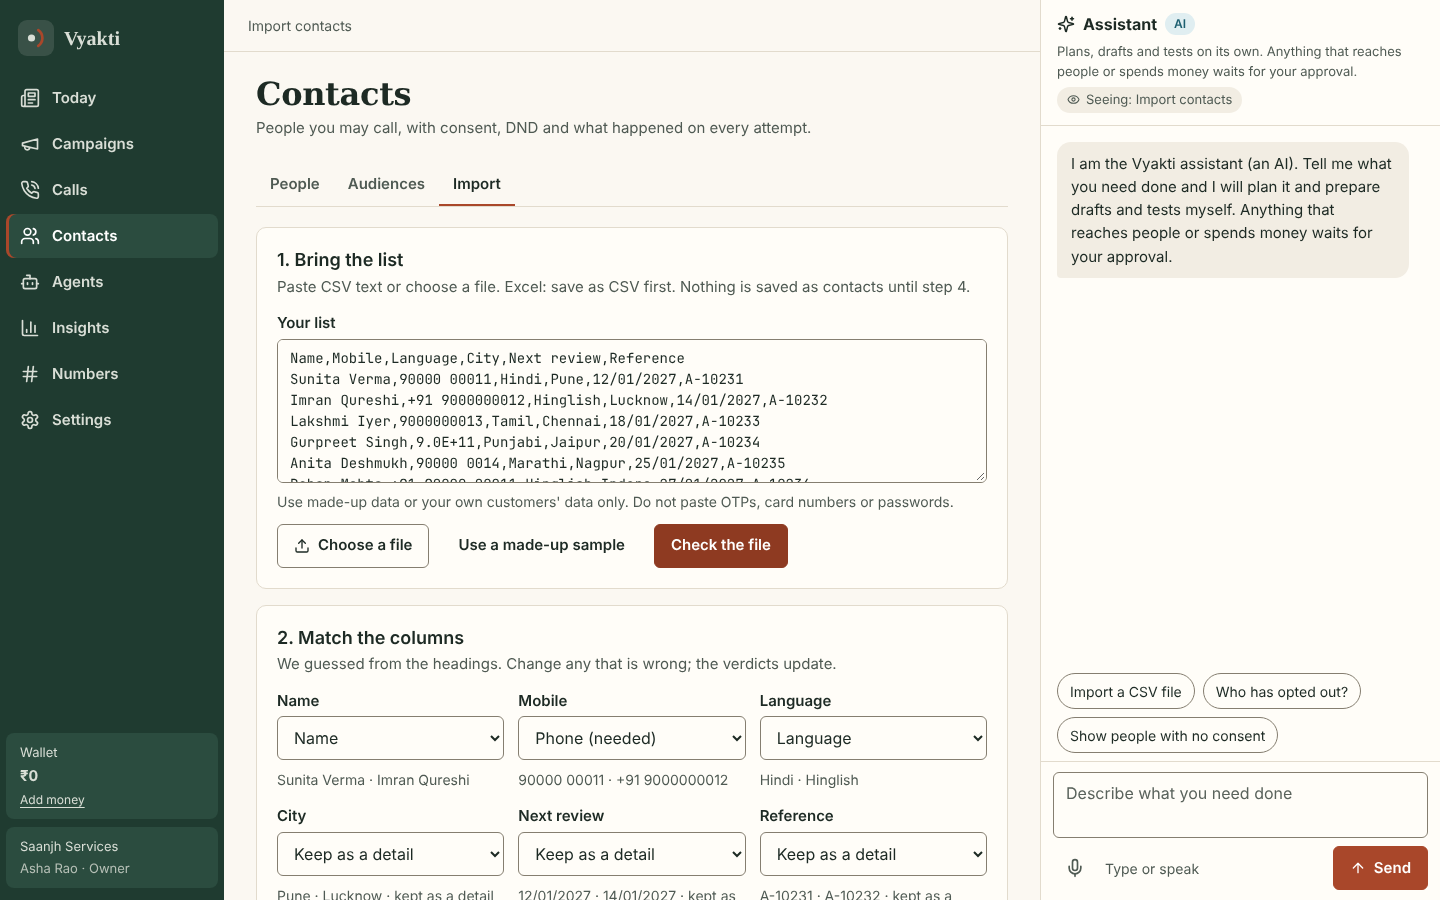
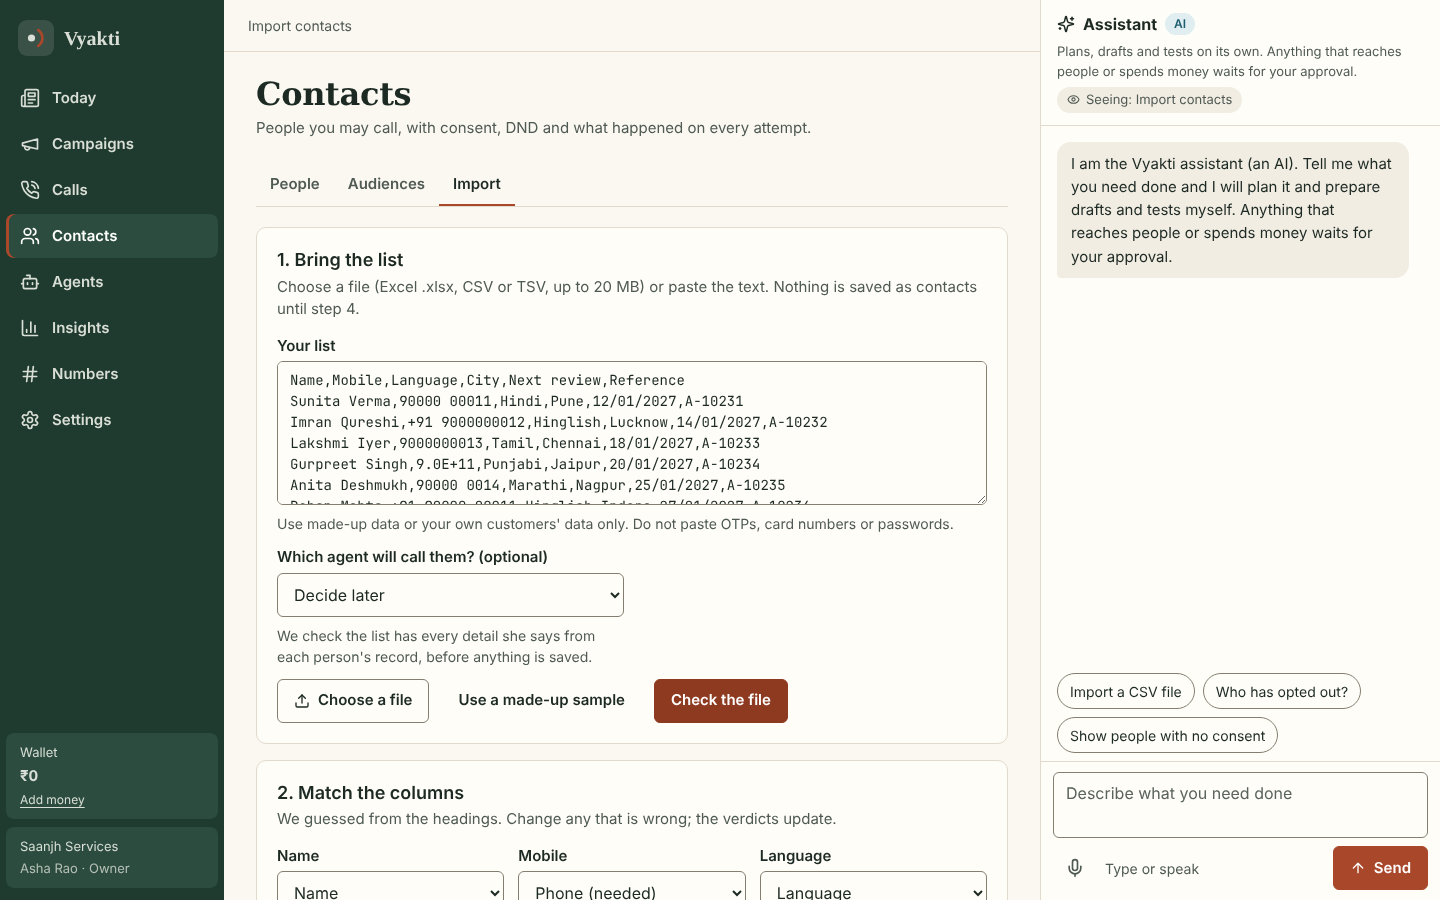
Import a buyer's real file: Excel on the web screen, the agent's column contract, per-person voice and opening (brief 9)
- Web import: choose an Excel (.xlsx), CSV or TSV file up to 20 MB (Excel is read on the server; formulas use their
  saved values), an optional "Which agent will call them?", and a card listing each detail that agent says from a
  person's record with the column that fills it; a suggested column is matched only when the member taps it.
  Voice and opening for one person are column choices. The 900 KB limit is gone.
- source.map returns up to three sample values per column (none for viewers), so Excel columns show samples.
- Server strings say Vyakti, not VP.
- Browser flow: an .xlsx with a Devanagari number and a formula cell, imported for the EMI agent; the missing due date
  is matched in one tap and the server keeps it under emi_due. Screenshots contacts-import-excel at 1440 and 390.
Verified: tsc clean (server, web); ui-contract 193/193; intake 19/19, intake-xlsx 8/8; product and review suite green;
browser flows 57 pass, 0 fail, 2 skipped (no voice runtime on this machine).

Claude-Session: https://claude.ai/code/session_01QRmKfijmjXuo8anLZ2SL3g

Changed region(s): [[0.1875, 0.3111, 0.6875, 1.0], [0.4062, 0.6533, 0.4375, 0.6844]]

diff --git a/product/web/src/pages/contacts.tsx b/product/web/src/pages/contacts.tsx
@@ -5,8 +5,8 @@ import { useApp, useData } from '../store.tsx';
 import { Link, useNav, useQuery } from '../router.tsx';
 import { Async, Btn, Card, CardHead, Chip, Empty, Kv, PageHead, SelectField, Table, Tabs, TextArea, TextField, type Col } from '../ui.tsx';
 import { langShort } from '../catalog.ts';
-import { audienceList, contactGet, contactList, importMap, importUpload, overridesFrom } from '../data.ts';
-import { count, date, phone as fmtPhone } from '../format.ts';
+import { agentNames, audienceList, contactGet, contactList, importMap, importUpload, importUploadFile, isExcel, MAX_IMPORT_BYTES, overridesFrom } from '../data.ts';
+import { bytes as fmtBytes, count, date, phone as fmtPhone, plural } from '../format.ts';
 import { BulkDnd, DndButton, DndExplain, ExportButton, StopCard, SuppressionNote } from './contact-actions.tsx';
 const REASON: Record<string, string> = { dnd_unknown: 'Do Not Disturb has not been checked yet', dnd_registered: 'The person is on the Do Not Disturb list', suppressed: 'The person asked not to be called', no_consent: 'No consent is on file', no_basis: 'There is no basis on file to call this person', tombstoned: 'The person asked to be erased' };
 const reasonText = (r: string) => REASON[r] ?? prettyCode(r).replace(/^Dnd/, 'Do Not Disturb');
@@ -98,11 +98,15 @@ Rohan Mehta,+91 90000 00011,Hinglish,Indore,27/01/2027,A-10236
 Farah Sheikh,,Hinglish,Kochi,01/02/2027,A-10237
 Vikram Rao,9000000015,Telugu,Patna,03/02/2027,A-10238
 `;
-const FIELDS: [string, string][] = [['name', 'Name'], ['first_name', 'First name'], ['last_name', 'Last name'], ['phone', 'Phone (needed)'], ['language', 'Language'], ['timezone', 'Time zone'], ['consent', 'Consent (yes or no)'], ['consent_at', 'Consent date'], ['opt_out', 'Opted out (yes or no)'], ['attribute', 'Keep as a detail'], ['ignore', 'Ignore this column']];
+const FIELDS: [string, string][] = [['name', 'Name'], ['first_name', 'First name'], ['last_name', 'Last name'], ['phone', 'Phone (needed)'], ['language', 'Language'], ['timezone', 'Time zone'], ['consent', 'Consent (yes or no)'], ['consent_at', 'Consent date'], ['opt_out', 'Opted out (yes or no)'], ['voice', 'Voice for this person'], ['first_message', 'What to open with, for this person'], ['attribute', 'Keep as a detail'], ['ignore', 'Ignore this column']];
 
 function Import() {
   const { act, toast } = useApp(); const go = useNav();
   const [csv, setCsv] = useState('');
+  const [picked, setPicked] = useState<File | null>(null);        // a chosen file sent as is (Excel, or text too big to show)
+  const [srcText, setSrcText] = useState('');                     // the text the preview's samples come from
+  const [agentId, setAgentId] = useState('');
+  const agents = useData('import-agents', agentNames);
   const [pv, setPv] = useState<ImportPreview | null>(null);
   const [busy, setBusy] = useState(false);
   const [purpose, setPurpose] = useState(''); const [aud, setAud] = useState(() => `Import of ${date(new Date())}`);
@@ -111,7 +115,10 @@ function Import() {
 
   const check = async () => {
     setBusy(true);
-    try { const id = await importUpload(csv, 'Pasted list'); setPv(await importMap(id, csv)); }
+    try {
+      const up = picked ? await importUploadFile(picked) : { uploadId: await importUpload(csv, 'Pasted list'), text: csv };
+      setSrcText(up.text); setPv(await importMap(up.uploadId, up.text, undefined, agentId || undefined));
+    }
     catch (e) { toast(e instanceof Error ? e.message : 'Could not read that file.', 'bad'); }
     setBusy(false);
   };
@@ -121,10 +128,24 @@ function Import() {
     const col = pv.columns.find(c => c.header === header)!;
     ov[header] = { field, key: field === 'attribute' || field === 'ignore' ? col.key ?? header.toLowerCase().replace(/[^\p{L}\p{N}]+/gu, '_').replace(/^_|_$/g, '') : undefined };
     setBusy(true);
-    try { setPv(await importMap(pv.uploadId, csv, ov)); } catch (e) { toast(e instanceof Error ? e.message : 'Could not apply that.', 'bad'); }
+    try { setPv(await importMap(pv.uploadId, srcText, ov, agentId || undefined)); } catch (e) { toast(e instanceof Error ? e.message : 'Could not apply that.', 'bad'); }
     setBusy(false);
   };
-  const onFile = async (f?: File) => { if (!f) return; if (f.size > 900_000) { toast('That file is over 900 KB. Split it into smaller files for now.', 'bad'); return; } setCsv(await f.text()); setPv(null); };
+  const onFile = async (f?: File) => {
+    if (!f) return;
+    if (file.current) file.current.value = '';
+    if (f.size > MAX_IMPORT_BYTES) { toast(`That file is ${fmtBytes(f.size)}. Files can be up to 20 MB; split it into smaller files.`, 'bad'); return; }
+    if (/\.xls$/i.test(f.name)) { toast('That is an old Excel file (.xls). Save it as .xlsx or CSV, then choose it again.', 'bad'); return; }
+    setPv(null);
+    if (isExcel(f) || f.size > 400_000) { setPicked(f); setCsv(''); } else { setPicked(null); setCsv(await f.text()); }
+  };
+  const useColumn = (header: string, factKey: string) => {
+    if (!pv) return;
+    const ov = overridesFrom(pv.columns);
+    ov[header] = { field: 'attribute', key: factKey };
+    setBusy(true);
+    importMap(pv.uploadId, srcText, ov, agentId || undefined).then(setPv, e => toast(e instanceof Error ? e.message : 'Could not apply that.', 'bad')).finally(() => setBusy(false));
+  };
   const rows = useMemo(() => (pv?.rows ?? []).filter(r => filter === 'all' || r.verdict !== 'ok'), [pv, filter]);
   const missingPhone = pv && !pv.columns.some(c => c.field === 'phone');
   const commit = async () => {
@@ -140,13 +161,21 @@ function Import() {
   ];
   return (
     <div className="stack">
-      <Card><CardHead title="1. Bring the list" sub="Paste CSV text or choose a file. Excel: save as CSV first. Nothing is saved as contacts until step 4." />
-        <TextArea label="Your list" value={csv} onChange={e => { setCsv(e.target.value); setPv(null); }} rows={6} placeholder="Name,Mobile,City&#10;Sunita Verma,90000 00011,Pune" className="field-mono" hint="Use made-up data or your own customers' data only. Do not paste OTPs, card numbers or passwords." />
+      <Card><CardHead title="1. Bring the list" sub="Choose a file (Excel .xlsx, CSV or TSV, up to 20 MB) or paste the text. Nothing is saved as contacts until step 4." />
+        {picked ? <div className="filepick" role="status"><p><strong>{picked.name}</strong> <span className="muted tnum">· {fmtBytes(picked.size)}{isExcel(picked) ? ' · Excel, read on our server (first sheet; formulas use their saved values)' : ''}</span></p>
+          <Btn size="sm" kind="ghost" onClick={() => { setPicked(null); setPv(null); }}>Choose another</Btn></div>
+          : <TextArea label="Your list" value={csv} onChange={e => { setCsv(e.target.value); setPv(null); }} rows={6} placeholder="Name,Mobile,City&#10;Sunita Verma,90000 00011,Pune" className="field-mono" hint="Use made-up data or your own customers' data only. Do not paste OTPs, card numbers or passwords." />}
+        <div className="formgrid" style={{ marginTop: 12 }}>
+          <Async q={agents} what="Agents" tool="agent.list" rows={1}>{list => (
+            <SelectField label="Which agent will call them? (optional)" value={agentId} onChange={e => { setAgentId(e.target.value); setPv(null); }}
+              hint="We check the list has every detail she says from each person's record, before anything is saved.">
+              <option value="">Decide later</option>{list.map(a => <option key={a.id} value={a.id}>{a.name}</option>)}</SelectField>)}</Async>
+        </div>
         <div className="row" style={{ marginTop: 12 }}>
-          <input ref={file} type="file" accept=".csv,text/csv,text/plain" className="sr" aria-label="Choose a CSV file" onChange={e => void onFile(e.target.files?.[0])} />
+          <input ref={file} type="file" accept=".xlsx,.csv,.tsv,.txt,text/csv,text/plain,application/vnd.openxmlformats-officedocument.spreadsheetml.sheet" className="sr" aria-label="Choose a file: Excel, CSV or TSV" onChange={e => void onFile(e.target.files?.[0])} />
           <Btn icon={<Upload size={16} aria-hidden />} onClick={() => file.current?.click()}>Choose a file</Btn>
-          <Btn kind="ghost" onClick={() => { setCsv(SAMPLE); setPv(null); }}>Use a made-up sample</Btn>
-          {csv.trim() ? <Btn kind="primary" busy={busy} onClick={() => void check()}>Check the file</Btn> : <Btn disabled reason="Paste or choose a list first.">Check the file</Btn>}
+          <Btn kind="ghost" onClick={() => { setPicked(null); setCsv(SAMPLE); setPv(null); }}>Use a made-up sample</Btn>
+          {picked || csv.trim() ? <Btn kind="primary" busy={busy} onClick={() => void check()}>Check the file</Btn> : <Btn disabled reason="Choose a file or paste a list first.">Check the file</Btn>}
         </div></Card>
       {pv && <>
         <Card><CardHead title="2. Match the columns" sub="We guessed from the headings. Change any that is wrong; the verdicts update." />
@@ -154,7 +183,9 @@ function Import() {
             <div key={c.header} className="mapcol"><SelectField label={c.header} value={c.field.startsWith('attribute:') ? 'attribute' : c.field} onChange={e => void remap(c.header, e.target.value)} hint={<span lang="hi">{c.sample.filter(Boolean).slice(0, 2).join(' · ') || 'empty'}{c.why === 'default' ? ' · kept as a detail by default' : ''}</span>}>
               {FIELDS.map(([v, l]) => <option key={v} value={v}>{l}</option>)}</SelectField></div>))}</div>
           {missingPhone && <p className="hint hint-bad">No column is matched to Phone, so no row can be called.</p>}
+          {pv.converted && <p className="hint">Read from the sheet “{pv.converted.sheet}” of your Excel file.{pv.converted.formulaCells ? ` ${plural(pv.converted.formulaCells, 'formula cell')} used ${pv.converted.formulaCells === 1 ? 'the value' : 'the values'} Excel last saved.` : ''}{pv.converted.formulaWithoutValue ? ` ${plural(pv.converted.formulaWithoutValue, 'formula cell')} had no saved value and ${pv.converted.formulaWithoutValue === 1 ? 'is' : 'are'} empty; open the file in Excel and save it to fill ${pv.converted.formulaWithoutValue === 1 ? 'it' : 'them'}.` : ''}</p>}
         </Card>
+        {pv.agentFacts && <AgentFactsCard facts={pv.agentFacts} headers={pv.columns.map(c => c.header)} busy={busy} onUse={useColumn} />}
         <Card><CardHead title="3. What will happen to each row" />
           <div className="receipt" role="status">
             <div><b className="tnum serif">{count(pv.counts.in)}</b><span>rows in</span></div><div><b className="tnum serif">{count(pv.counts.callable)}</b><span>callable numbers</span></div>
@@ -170,6 +201,23 @@ function Import() {
           <div style={{ marginTop: 16 }}>{reasonOff ? <Btn disabled reason={reasonOff}>Save contacts</Btn> : <Btn kind="primary" onClick={commit}>Save {count(pv.counts.callable)} contacts</Btn>}</div></Card>
       </>}
     </div>
+  );
+}
+
+/** The chosen agent's column contract: each detail she says from a person's record, and the column that fills it.
+ *  Nothing is matched for the member; a suggestion becomes a match only when they tap it. */
+function AgentFactsCard({ facts, headers, busy, onUse }: { facts: NonNullable<ImportPreview['agentFacts']>; headers: string[]; busy: boolean; onUse: (header: string, factKey: string) => void }) {
+  const missing = facts.facts.filter(f => f.status === 'missing');
+  return (
+    <Card><CardHead title={`What ${facts.agent} says from each person's record`} sub={missing.length ? `${count(missing.length)} ${missing.length === 1 ? 'detail has' : 'details have'} no column yet. A campaign with this agent cannot start until each has one.` : 'Every detail she says has a column in this list.'} />
+      {facts.facts.length === 0 ? <p className="muted">This agent says nothing from a person's record, so any list works.</p> :
+        <ul className="facts">{facts.facts.map(f => (
+          <li key={f.key}><div className="row" style={{ justifyContent: 'space-between' }}><strong>{f.label}</strong>
+            <Chip tone={f.status === 'missing' ? 'brick' : 'leaf'}>{f.status === 'missing' ? 'No column' : f.status === 'name' ? 'From the name' : `From “${headers.find(h => h === f.column) ?? f.column}”`}</Chip></div>
+            {f.status === 'missing' && (f.suggestions.length ? <div className="row" style={{ marginTop: 6 }}><span className="small muted">Is it one of these?</span>
+              {f.suggestions.filter(h => headers.includes(h)).slice(0, 3).map(h => <Btn key={h} size="sm" busy={busy} onClick={() => onUse(h, f.key)}>Use “{h}”</Btn>)}</div>
+              : <p className="small muted">No column looks like it. Add one to the file, or change the agent.</p>)}</li>))}</ul>}
+    </Card>
   );
 }
 

diff --git a/product/web/src/data.ts b/product/web/src/data.ts
@@ -1,7 +1,7 @@
 // The data layer: turns the real tools' answers into the view models the pages draw, and turns page actions into tool calls.
 // Pure TypeScript (no JSX). Every read goes through run(), so a tool that is not registered throws ToolMissing and the page
 // shows its "not switched on yet" state. Shapes here follow product/shared/tool-catalog.json and the module code.
-import { run } from './api.ts';
+import { run, uploadContacts } from './api.ts';
 import { partsRan } from './catalog.ts';
 import type {
   ActivityRow, AgentConfigDraft, AgentDoc, AgentRow, ApiKey, AudienceRow, Blocker, CallDoc, CallExplain, CallRow, CallTurn, CampaignDoc, CampaignRow, ContactDoc, ContactRow,
@@ -117,24 +117,46 @@ const REJECT_TEXT: Record<string, string> = {
 export function parseCsvSample(text: string, col: number): string[] {
   return text.split(/\r?\n/).slice(1, 4).map(l => (l.split(',')[col] ?? '').trim());
 }
+/** Agents by name, for the import screen's "Which agent will call them?" (no per-agent detail fetched). */
+export async function agentNames(): Promise<{ id: string; name: string }[]> {
+  return arr<any>((await run<{ agents: unknown[] }>('agent.list', {})).agents).map(a => ({ id: a.id, name: a.name }));
+}
 export async function importUpload(text: string, name: string): Promise<string> {
   const r = await run<{ uploadId: string }>('source.upload', { kind: 'csv', name, text, filename: name });
   return r.uploadId;
 }
-export async function importMap(uploadId: string, text: string, overrides?: Record<string, { field: string; key?: string }>): Promise<ImportPreview> {
-  const r = await run<any>('source.map', { uploadId, overrides, previewRows: 100 });
+/** A chosen file to an upload: Excel goes as base64 and is read on the server; text files go as text. Up to 20 MB. */
+export const MAX_IMPORT_BYTES = 20 * 1024 * 1024;
+export const isExcel = (f: File) => /\.xlsx$/i.test(f.name) || f.type === 'application/vnd.openxmlformats-officedocument.spreadsheetml.sheet';
+export async function importUploadFile(f: File): Promise<{ uploadId: string; text: string }> {
+  if (isExcel(f)) {
+    const bytes = new Uint8Array(await f.arrayBuffer());
+    let bin = '';
+    for (let i = 0; i < bytes.length; i += 0x8000) bin += String.fromCharCode(...bytes.subarray(i, i + 0x8000));
+    return { uploadId: (await uploadContacts({ base64: btoa(bin), filename: f.name })).uploadId, text: '' };
+  }
+  const text = await f.text();
+  return { uploadId: (await uploadContacts({ text, filename: f.name })).uploadId, text };
+}
+const OVERRIDE_NOTE = /^(voice|first message): /;
+export async function importMap(uploadId: string, text: string, overrides?: Record<string, { field: string; key?: string }>, agentId?: string): Promise<ImportPreview> {
+  const r = await run<any>('source.map', { uploadId, overrides, previewRows: 100, ...(agentId ? { agentId } : {}) });
   const nameOf = (p: any) => p.attributes?.name as string | undefined;
   const rows: ImportRowVerdict[] = arr<any>(r.preview).map(p => {
     const v: string = p.verdict;
+    const refused = arr<string>(p.notes).filter(n => OVERRIDE_NOTE.test(n));
+    if ((v === 'new' || v === 'update' || v === 'unchanged') && refused.length) return { row: p.row, phone: p.phone, verdict: 'review', name: nameOf(p), reason: `Will be called, but not with this ${refused.map(n => n.replace(/^(voice|first message): .*/, '$1')).join(' or ')}: ${refused[0].replace(OVERRIDE_NOTE, '')}` };
     if (v === 'new' || v === 'update' || v === 'unchanged') return { row: p.row, phone: p.phone, verdict: 'ok', name: nameOf(p), reason: v === 'update' ? 'Already on file; details will be merged' : undefined };
     if (v === 'duplicate_in_file') return { row: p.row, phone: p.phone, verdict: 'duplicate', name: nameOf(p), reason: 'Same number as an earlier row' };
     if (v === 'suppressed' || v === 'tombstoned') return { row: p.row, phone: p.phone, verdict: 'suppressed', name: nameOf(p), reason: 'This person asked not to be called' };
     if (v === 'conflict_review') return { row: p.row, phone: p.phone, verdict: 'review', name: nameOf(p), reason: 'Two sources disagree; a person should look' };
     return { row: p.row, phone: null, verdict: 'skipped', name: nameOf(p), reason: REJECT_TEXT[v] ?? v };
   });
-  const cols = arr<any>(r.columns).map(c => ({ header: c.header, sample: parseCsvSample(text, c.column), field: c.field === 'attribute' ? `attribute:${c.key}` : c.field, key: c.key, confidence: c.confidence, why: c.why }));
+  const cols = arr<any>(r.columns).map(c => ({ header: c.header, sample: Array.isArray(c.samples) ? c.samples : parseCsvSample(text, c.column), field: c.field === 'attribute' ? `attribute:${c.key}` : c.field, key: c.key, confidence: c.confidence, why: c.why }));
   const rej = Object.values<number>(r.phones?.rejected ?? {}).reduce((a, b) => a + b, 0);
-  return { uploadId, columns: cols, rows, counts: { in: r.rowsTotal, callable: r.phones?.ok ?? 0, duplicate: r.phones?.duplicatesInFile ?? 0, skipped: rej }, questions: arr<any>(r.questions).map(q => ({ text: typeof q === 'string' ? q : q.text ?? JSON.stringify(q) })) };
+  return { uploadId, columns: cols, rows, counts: { in: r.rowsTotal, callable: r.phones?.ok ?? 0, duplicate: r.phones?.duplicatesInFile ?? 0, skipped: rej }, questions: arr<any>(r.questions).map(q => ({ text: typeof q === 'string' ? q : q.text ?? JSON.stringify(q) })),
+    ...(r.agentFacts ? { agentFacts: { agent: r.agentFacts.agent, facts: arr<any>(r.agentFacts.facts).map(f => ({ key: f.key, label: f.label, status: f.status, column: f.column, suggestions: arr<string>(f.suggestions) })) } } : {}),
+    ...(r.converted ? { converted: { sheet: r.converted.sheet, rows: r.converted.rows, formulaCells: r.converted.formulaCells, formulaWithoutValue: r.converted.formulaWithoutValue } } : {}) };
 }
 export function overridesFrom(cols: ImportPreview['columns']): Record<string, { field: string; key?: string }> {
   return Object.fromEntries(cols.map(c => c.field.startsWith('attribute:') ? [c.header, { field: 'attribute', key: c.key }] : [c.header, { field: c.field, key: c.key }]));

diff --git a/product/web/src/types.ts b/product/web/src/types.ts
@@ -55,7 +55,12 @@ export interface ContactDoc {
 }
 export interface ImportColumn { header: string; sample: string[]; field: string; key?: string; confidence: number; why: string }
 export interface ImportRowVerdict { row: number; phone: string | null; verdict: 'ok' | 'duplicate' | 'skipped' | 'suppressed' | 'review'; reason?: string; name?: string }
-export interface ImportPreview { uploadId: string; columns: ImportColumn[]; rows: ImportRowVerdict[]; counts: { in: number; callable: number; duplicate: number; skipped: number }; questions: { text: string }[] }
+export interface ImportFact { key: string; label: string; status: 'matched' | 'name' | 'missing'; column?: string; suggestions: string[] }
+export interface ImportPreview {
+  uploadId: string; columns: ImportColumn[]; rows: ImportRowVerdict[]; counts: { in: number; callable: number; duplicate: number; skipped: number }; questions: { text: string }[];
+  agentFacts?: { agent: string; facts: ImportFact[] };                       // what the chosen agent says from each person's record
+  converted?: { sheet: string; rows: number; formulaCells: number; formulaWithoutValue: number };   // an Excel file read on the server
+}
 export interface AudienceRow { id: string; name: string; matched: number | null; callable: number | null; suppressed: number | null; dndUnknown: number | null; note: string }
 
 export interface CampaignRow { id: string; name: string; category: string; state: string; pauseCause: string | null; attempts: number; blocked: number; launchedAt: string | null }

diff --git a/product/server/modules/intake/sources.ts b/product/server/modules/intake/sources.ts
@@ -260,7 +260,9 @@ export function registerSourceTools(reg: Registry): void {
       return {
         ...(agentFacts ? { agentFacts } : {}),
         uploadId: u.id, delimiter: t.delimiter === '\t' ? 'tab' : t.delimiter, hasHeader: t.mapping.hasHeader, ...(u.converted ? { converted: u.converted } : {}),
-        columns: t.mapping.columns, ignoredByDesign: t.mapping.columns.filter(c => c.why === 'pii_by_design').map(c => c.header),
+        // A few values per column for the mapping screen (an Excel file has no text in the browser). Viewers get none.
+        columns: t.mapping.columns.map(c => ctx.actor.role === 'viewer' || c.field === 'ignore' ? c : { ...c, samples: t.rows.slice(t.mapping.hasHeader ? 1 : 0)
+          .map(r => (r[c.column] ?? '').trim()).filter(Boolean).slice(0, 3).map(v => v.slice(0, 40)) }), ignoredByDesign: t.mapping.columns.filter(c => c.why === 'pii_by_design').map(c => c.header),
         rowsTotal: rows.length, phones: { ok, duplicatesInFile: dup, rejected: reasons },
         preview, questions: questions.slice(0, agentFacts ? 4 : 3),
       };

diff --git a/product/web/src/api.ts b/product/web/src/api.ts
@@ -50,6 +50,10 @@ function fail(r: { status: number; json: any }): never {
   throw new ApiError(r.status, e?.code ?? 'error', e?.message ?? `The server answered ${r.status}.`, e?.path);
 }
 
+/** A contacts file: JSON {text, filename} or, for Excel, {base64, filename}; up to 20 MB. Not a tool: files are a raw route. */
+export async function uploadContacts(body: { text?: string; base64?: string; filename: string }): Promise<{ uploadId: string; bytes: number }> {
+  const r = await http('POST', '/v1/uploads/contacts', { ...body, final: true }); if (r.status >= 300) fail(r); return r.json;
+}
 export async function signup(b: { workspace: string; name: string; email: string; password: string }) {
   const r = await http('POST', '/v1/signup', b); if (r.status >= 300) fail(r); return r.json;
 }

diff --git a/product/web/src/pages.css b/product/web/src/pages.css
@@ -168,3 +168,6 @@ a.btn.btn-primary { color: var(--on-terra); }
 .auth-or::before, .auth-or::after { content: ""; flex: 1; border-top: 1px solid var(--line); }
 .auth-sso { display: grid; gap: 8px; }
 .auth-sso .btn-wrap { display: flex; } .auth-sso .btn { width: 100%; }
+/* Import: a chosen file shown instead of the text box (Excel, or a file too big to show). */
+.filepick { display: flex; flex-wrap: wrap; align-items: center; justify-content: space-between; gap: 8px; border: 1px dashed var(--line-strong); border-radius: 10px; padding: 12px; }
+.filepick p { margin: 0; overflow-wrap: anywhere; }

diff --git a/product/web/src/format.ts b/product/web/src/format.ts
@@ -68,3 +68,8 @@ export function phone(e164: string | null | undefined): string {
 }
 export const initials = (name: string) => name.split(/\s+/).filter(Boolean).slice(0, 2).map(p => p[0]).join('').toUpperCase();
 export const plural = (n: number, one: string, many = one + 's') => `${count(n)} ${n === 1 ? one : many}`;
+/** A file size in plain units: "820 KB", "14.3 MB". */
+export function bytes(n: number): string {
+  if (n < 1024 * 1024) return `${Math.max(1, Math.round(n / 1024))} KB`;
+  return `${(n / (1024 * 1024)).toFixed(n < 10 * 1024 * 1024 ? 1 : 0)} MB`;
+}
